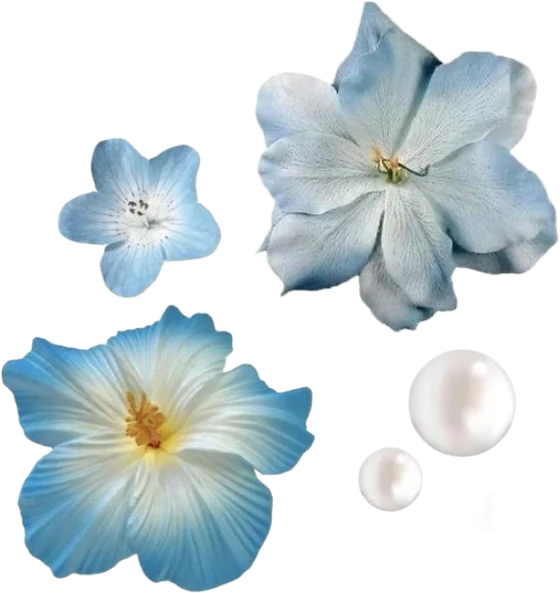
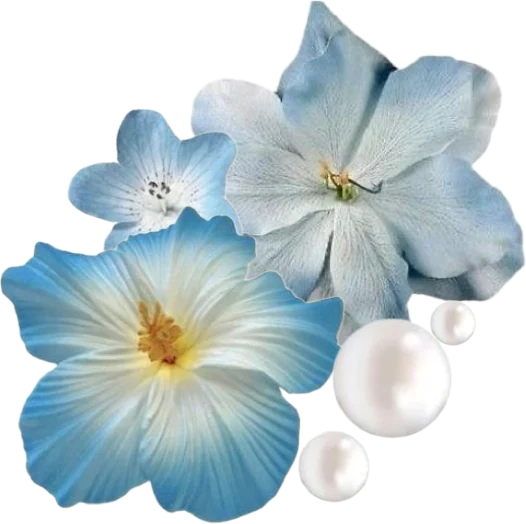
Baby shower: ramito de flores con perlas compacto; encaje en orilla superior y esquinas de la tarjeta; lirios acomodados
Claude-Session: https://claude.ai/code/session_0153kB2WEZtZCgdzjpf5Jv3T

diff --git a/plantillas/baby-shower/index.html b/plantillas/baby-shower/index.html
@@ -122,7 +122,7 @@
   .btn.f{background:var(--blue2);color:#fff;border-color:var(--blue2);box-shadow:0 1cqw 2.4cqw rgba(62,88,132,.25)}
   .btn:active{transform:scale(.97)}
 
-  .hero{padding-top:20cqw}
+  .hero{padding-top:24cqw}
   .hero .arch{padding-top:20cqw}
   .hero .gl{width:24cqw;margin:0 auto -4cqw;position:relative;z-index:3}
   .hero .nm{font-family:var(--serif);font-size:9cqw;letter-spacing:.16em;padding-left:.16em;text-transform:uppercase;color:var(--navy);font-weight:500;margin-top:3cqw;line-height:1.1}
@@ -214,6 +214,12 @@
   .filmcard .fbar{position:absolute;left:4cqw;right:4cqw;bottom:3cqw;height:.8cqw;border-radius:1cqw;background:rgba(255,255,255,.35);overflow:hidden}
   .filmcard .fbar i{display:block;height:100%;width:0;background:#fff;border-radius:1cqw}
   .lace{position:absolute;z-index:0;pointer-events:none;opacity:.9}
+  .lace-top{position:absolute;left:0;top:0;width:100%;height:auto;z-index:4;pointer-events:none;filter:drop-shadow(0 .6cqw .8cqw rgba(40,60,90,.15))}
+  .arch.lacey{overflow:hidden}
+  .arch.lacey > *:not(.lc){position:relative;z-index:1}
+  .arch .lc{position:absolute;bottom:0;width:38cqw;opacity:.42;pointer-events:none;z-index:0}
+  .arch .lc.r{right:0}
+  .arch .lc.l{left:0;transform:scaleX(-1)}
   .lace-row{position:relative;z-index:1;display:block;width:100%;height:auto;margin-top:10cqw}
   .closing{position:relative;text-align:center;padding:14cqw 6cqw 10cqw}
   .closing > *:not(.lace){position:relative;z-index:1}
@@ -513,9 +519,11 @@
     ${sky("nube2", "left:-22cqw;top:360cqw;width:60cqw;opacity:.85")}${sky("nube3", "right:-8cqw;top:470cqw;width:38cqw;opacity:.8")}
     ${sky("nube1", "left:-24cqw;top:560cqw;width:74cqw;opacity:.8")}${sky("nube2", "right:-20cqw;top:660cqw;width:58cqw;opacity:.85")}
 
+    <img class="lace-top" src="${IMG("encaje-orilla")}" alt="">
     <section class="blk hero">
       <img class="gl rv" src="${IMG("globo")}" alt="" id="heroGlobo">
-      <div class="arch rv">
+      <div class="arch rv lacey">
+        <img class="lc l" src="${IMG("encaje-esquina")}" alt=""><img class="lc r" src="${IMG("encaje-esquina")}" alt="">
         <div class="kick">${esc(C.kicker)}</div>
         <div class="script" style="font-size:14cqw;margin-top:3cqw">${esc(C.textoSuperior)}</div>
         <div class="orn">✦</div>
@@ -527,8 +535,7 @@
         <div class="small">${esc(E.direccion)}</div>
         <div class="btns"><a class="btn f" href="${esc(E.mapa)}" target="_blank" rel="noopener">Ver ubicación</a><a class="btn" id="gcal" target="_blank" rel="noopener">Agendar</a></div>
       </div>
-      <img class="lace" src="${IMG("encaje-esquina")}" alt="" style="right:0;top:0;width:52cqw">
-      <img class="deco rv" src="${IMG("lirios")}" alt="" style="left:-9cqw;top:24cqw;width:36cqw;transform:rotate(-14deg)">
+      <img class="deco rv" src="${IMG("lirios")}" alt="" style="left:-3cqw;top:31cqw;width:30cqw;transform:rotate(-24deg)">
       <img class="deco rv" src="${IMG("elefante")}" alt="" style="right:-1cqw;bottom:0;width:25cqw">
       <img class="deco" src="${IMG("mariposa")}" alt="" style="right:10cqw;top:24cqw;width:11cqw" data-flap="1">
     </section>
